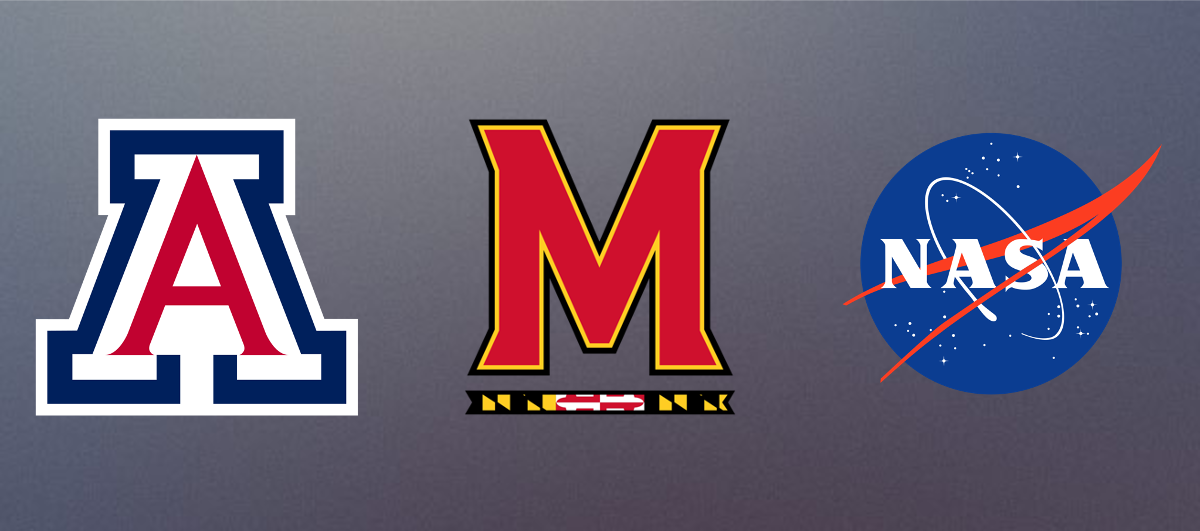
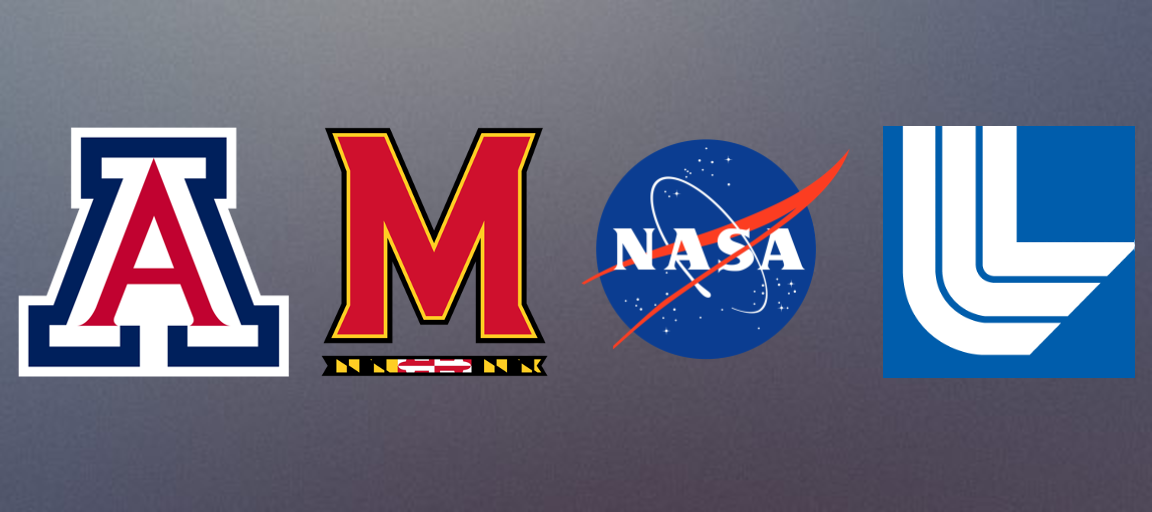
Graduation, updating jobs.

diff --git a/index.html b/index.html
@@ -51,7 +51,7 @@
 			<!-- Banner -->
 				<section id="banner">
 					<h2>Dylan Jacob Kline</h2>
-					<p>Chemical Engineering PhD Candidate</p>
+					<p>Research & Development Engineer - LLNL</p>
 					<!-- <ul class="actions special">
 						<li><a href="#" class="button primary">Sign Up</a></li>
 						<li><a href="#" class="button">Learn More</a></li>
@@ -63,17 +63,20 @@
 
 					<section class="box">
 
-							<h4>Engineeering. Energetics. Education.</h4>
-							<p><span class="image left"><img src="images/personal_picture.jpg" alt="" /></span>My name is Dylan Kline and I am a Chemical Engineering PhD Candidate at the University of Maryland College Park,
-							Research Associate at the University of California Riverside, and Engineer at NASA Goddard Space Flight Center. My research as a graduate student specializes in synthesis and characterization of novel energetic
-							materials with direct applications to the next generation of tunable rocket propellants. At NASA, I work in the Contamination and Coatings Engineering Branch (Code 546) where I am responsible for investigating new materials
-							for spaceflight application and creating/maintaining a variety of programming environments for efficient data transfer across the agency. I love learning about space exploration and new innovations in engineering,
-							energetic materials, and propulsion so that I can lend a hand in turning science fiction into nonfiction.
+							<!--<h4>Engineeering. Energetics. Education.</h4>-->
+							<p><span class="image left"><img src="images/personal_picture.jpg" alt="" /></span>
+							My name is Dylan Kline and I am a Postdoctoral Research Staff Member at the Lawrence Livermore National Laboratoy (LLNL) in the Rapid Materials Prototyping & Characterization Group where I specialize in additive manufacturing of energetic materials.
+							I earned my PhD in Chemical Engineering from the University of Maryland College Park in 2020 where I worked on synthesis and characterization of energetic nanomaterials with tunable reactivity.
+							I have also previously worked as an Engineer at NASA Goddard Space Flight Center in the Contamination & Coatings Engineering Branch (Code 546) where I was responsible for investigating new materials for spaceflight application and creating/maintaining a variety of programming environments for efficient data transfer across the agency.
+							I enjoy learning about new innovations in engineering, energetic materials, and propulsion so that I can lend a hand in turning science fiction into nonfiction.
 
-							<br><br>While I'm not buried in books or exploring new places with friends, I like to produce music and learn about graphic
-							design in my spare time. I took up piano at 10 years old and transitioned into music production at the age of 17. Music is a passion of mine and I am always excited to talk to someone who can expose me to something new.
+							<br><br>
+							While I'm not buried in books or exploring new places with friends, I like to produce music and learn about graphic design in my spare time.
+							I took up piano at 10 years old and transitioned into music production at the age of 17.
+							Music is a passion of mine and I am always excited to talk to someone who can expose me to something new.
 
-							<br><br>Please reach out to me if you would like to talk engineering, energetic materials, propulsion, education, music, or anything you may find interesting here.</p>
+							<br><br>
+							Please reach out to me if you would like to talk engineering, energetic materials, propulsion, education, music, or anything you may find interesting here.</p>
 
 					</section>
 
@@ -112,7 +115,7 @@
 							<section class="box special">
 								<span class="image featured"><img src="images/education_work_summ.png" alt="" /></span>
 								<h3>Education & Work</h3>
-								<p>Learn more about my experiences between the University of Arizona, University of Maryland, and NASA.</p>
+								<p>Learn more about my experiences between the University of Arizona, University of Maryland, NASA, and LLNL.</p>
 								<ul class="actions special">
 									<li><a href="education.html" class="button alt">Learn More</a></li>
 								</ul>

diff --git a/education.html b/education.html
@@ -145,10 +145,28 @@
 										<h3>Work</h3>
 										<div class="box alt">
 											<div class="row gtr-50 gtr-uniform">
+												<div class="col-2"><span class="image fit"><img src="images/llnl.png" alt="" /></span></div>
+												<div class="col-10">
+													<h4><b>Lawrence Livermore National Laboratory (LLNL)</b></h4>
+													<h4><i><b>Postdoctoral Research Staff Member</b>, <a href="https://pls.llnl.gov/research-and-development/materials-science">Materials Science Divsion</a> (2021-Present)</i></h4>
+													<ul>
+														<font size = 3em>
+															<li>Work performed in the Rapid Materials Prototyping & Characerization Group with the <a href="https://pls.llnl.gov/">Physical & Life Sciences Directorate</a>, <a href="https://pls.llnl.gov/research-and-development/materials-science">Materials Science Divsion</a>, Material Dynamics & Kinetics Group, <a href="https://pls.llnl.gov/resources/energetic-materials-center">Energetic Materials Center</a>, and <a href="https://wci.llnl.gov/facilities/heaf">High Explosives Applications Facility</a>.</li>
+															<li>Investigate and characterize additive manufacturing techniques for energetic materials.</li>
+														</font>
+													</ul>
+												</div>
+											</div>
+										</div>
+
+										<hr>
+
+										<div class="box alt">
+											<div class="row gtr-50 gtr-uniform">
 												<div class="col-2"><span class="image fit"><img src="images/nasa.png" alt="" /></span></div>
 												<div class="col-10">
-													<h4><b>National Aeronautics and Space Administration</b></h4>
-													<h4><i><b>Engineer</b>, Goddard Space Flight Center (2016-Present)</i></h4>
+													<h4><b>National Aeronautics and Space Administration (NASA)</b></h4>
+													<h4><i><b>Engineering Student Trainee (Pathways)</b>, <a href="https://www.nasa.gov/goddard">Goddard Space Flight Center</a> (2016-2020)</i></h4>
 													<ul>
 														<font size = 3em>
 															<li>Serve as project aid, contamination engineer, and coatings engineer to space satellite projects including the James Webb Space Telescope (JWST), Wide-Field Infrared Survey Telescope (WFIRST), Restore-L, Mars 2020, and Thermal Infrared Sensor-2 (TIRS-2).</li>
@@ -188,7 +206,7 @@
 												<div class="col-2"><span class="image fit"><img src="images/umd.png" alt="" /></span></div>
 												<div class="col-10">
 													<h4><b>University of Maryland College Park</b></h4>
-													<h4><i><b>Graduate Research Assistant III</b>, <a href="mrzgroup.ucr.edu">Zachariah Group</a> (2016-Present)</i></h4>
+													<h4><i><b>Graduate Research Assistant III</b>, <a href="https://mrzgroup.ucr.edu">Zachariah Group</a> (2016-2020)</i></h4>
 													<ul>
 														<font size = 3em>
 															<li>Characterize and develop novel energetic nanomaterials using high-speed optical measurements, additive manufacturing techniques, nanoparticle synthesis techniques, computational simulations, and more resulting in <a href="/publications.html">>20 peer-reviewed publications</a>.</li>
